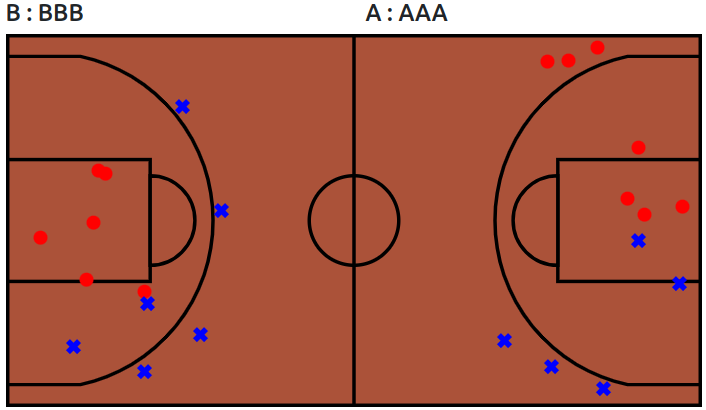
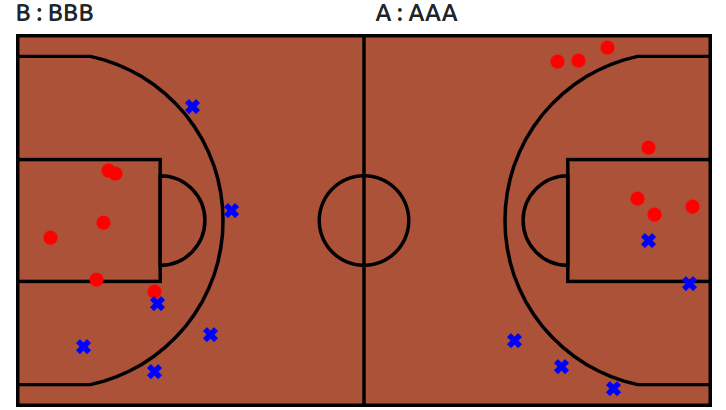
Edited carousel

diff --git a/public/index.html b/public/index.html
@@ -4,10 +4,22 @@
     <meta charset="utf-8">
     <meta name="viewport" content="width=device-width, initial-scale=1">
     <link rel="icon" size="16x16" href="favicon.ico"/>
-    <title>Basketball Analyse Tool</title>
+    <title>Basketball Analysis Tool</title>
 	<meta
       name="description"
-      content="Web site created using create-react-app"
+      content="Basketball Analysis Toolは、バスケットボールの試合データを解析するためのツールです。
+      試合データを入力することで、PPP、POSS、eFG%、TO%、FTR、ORB%、DRB%、TRB%を計算して表示します。
+      また、シュートポイントも記録することができるため、シュートポイントの分布を見ることができます。"
+    />
+    <meta
+      name="keyword"
+      content="mbo", "mbo57", "basketball","Basketball", "バスケットボール",
+              "analyse", "analyze", "analysis", "解析",
+              "tool", "ツール", "シュートポイント", "記録",
+              "PPP", "POSS", "eFG%", "TO%", "FTR", "ORB%", "ORD%", "TRB",
+              "eFG", "TO", "ORB", "ORD", "シュート", "ポイント", "得点",
+              "Rebound", "リバウンド", "Turn Over", "Block schot", "ターンオーバー",
+              "ブロックショット", "スコアシート", "score", "seet"
     />
   </head>
   <body>

diff --git a/src/pages/MainPage.tsx b/src/pages/MainPage.tsx
@@ -55,7 +55,7 @@ const MainPage:React.VFC<{ logininfo: LoginInfo }> = ({ logininfo }) => {
             <Carousel>
                 <Carousel.Item>
                     <img
-                        className="d-block h-100"
+                        className="d-block w-100"
                         src={Sample1}
                         alt="First slide"
                     />
@@ -68,7 +68,7 @@ const MainPage:React.VFC<{ logininfo: LoginInfo }> = ({ logininfo }) => {
                 </Carousel.Item>
                 <Carousel.Item>
                     <img
-                        className="d-block h-100"
+                        className="d-block w-100"
                         src={Sample2}
                         alt="Second slide"
                     />

diff --git a/src/pages/MyPage.tsx b/src/pages/MyPage.tsx
@@ -168,6 +168,7 @@ const MyPage:React.VFC<{ logininfo: LoginInfo }> = ({ logininfo }) => {
 				        });
                 })
                 .catch((error) => {
+                    console.log(error)
                     alert("現在のパスワードが違います。")
                 })
 	
